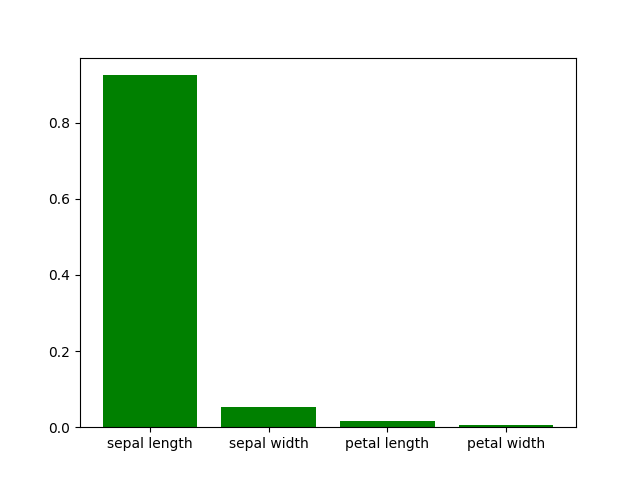
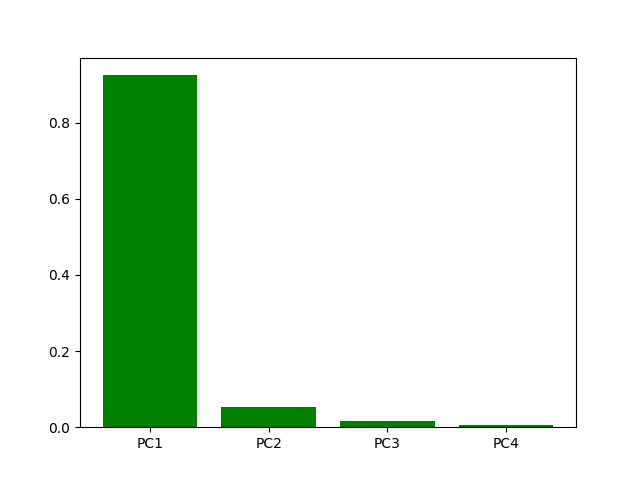
Day10 KNN update scree

diff --git a/Day10/day10.py b/Day10/day10.py
@@ -50,7 +50,7 @@ pca = PCA(n_components=4)
 pca.fit(iris.data)
 X = pca.transform(iris.data)
 labl = iris.target
-plt.bar(['sepal length', 'sepal width', 'petal length', 'petal width'], pca.explained_variance_ratio_, color='green')
+plt.bar(['PC1', 'PC2', 'PC3', 'PC4'], pca.explained_variance_ratio_, color='green')
 plt.show()
 
 def calcColour(label):
